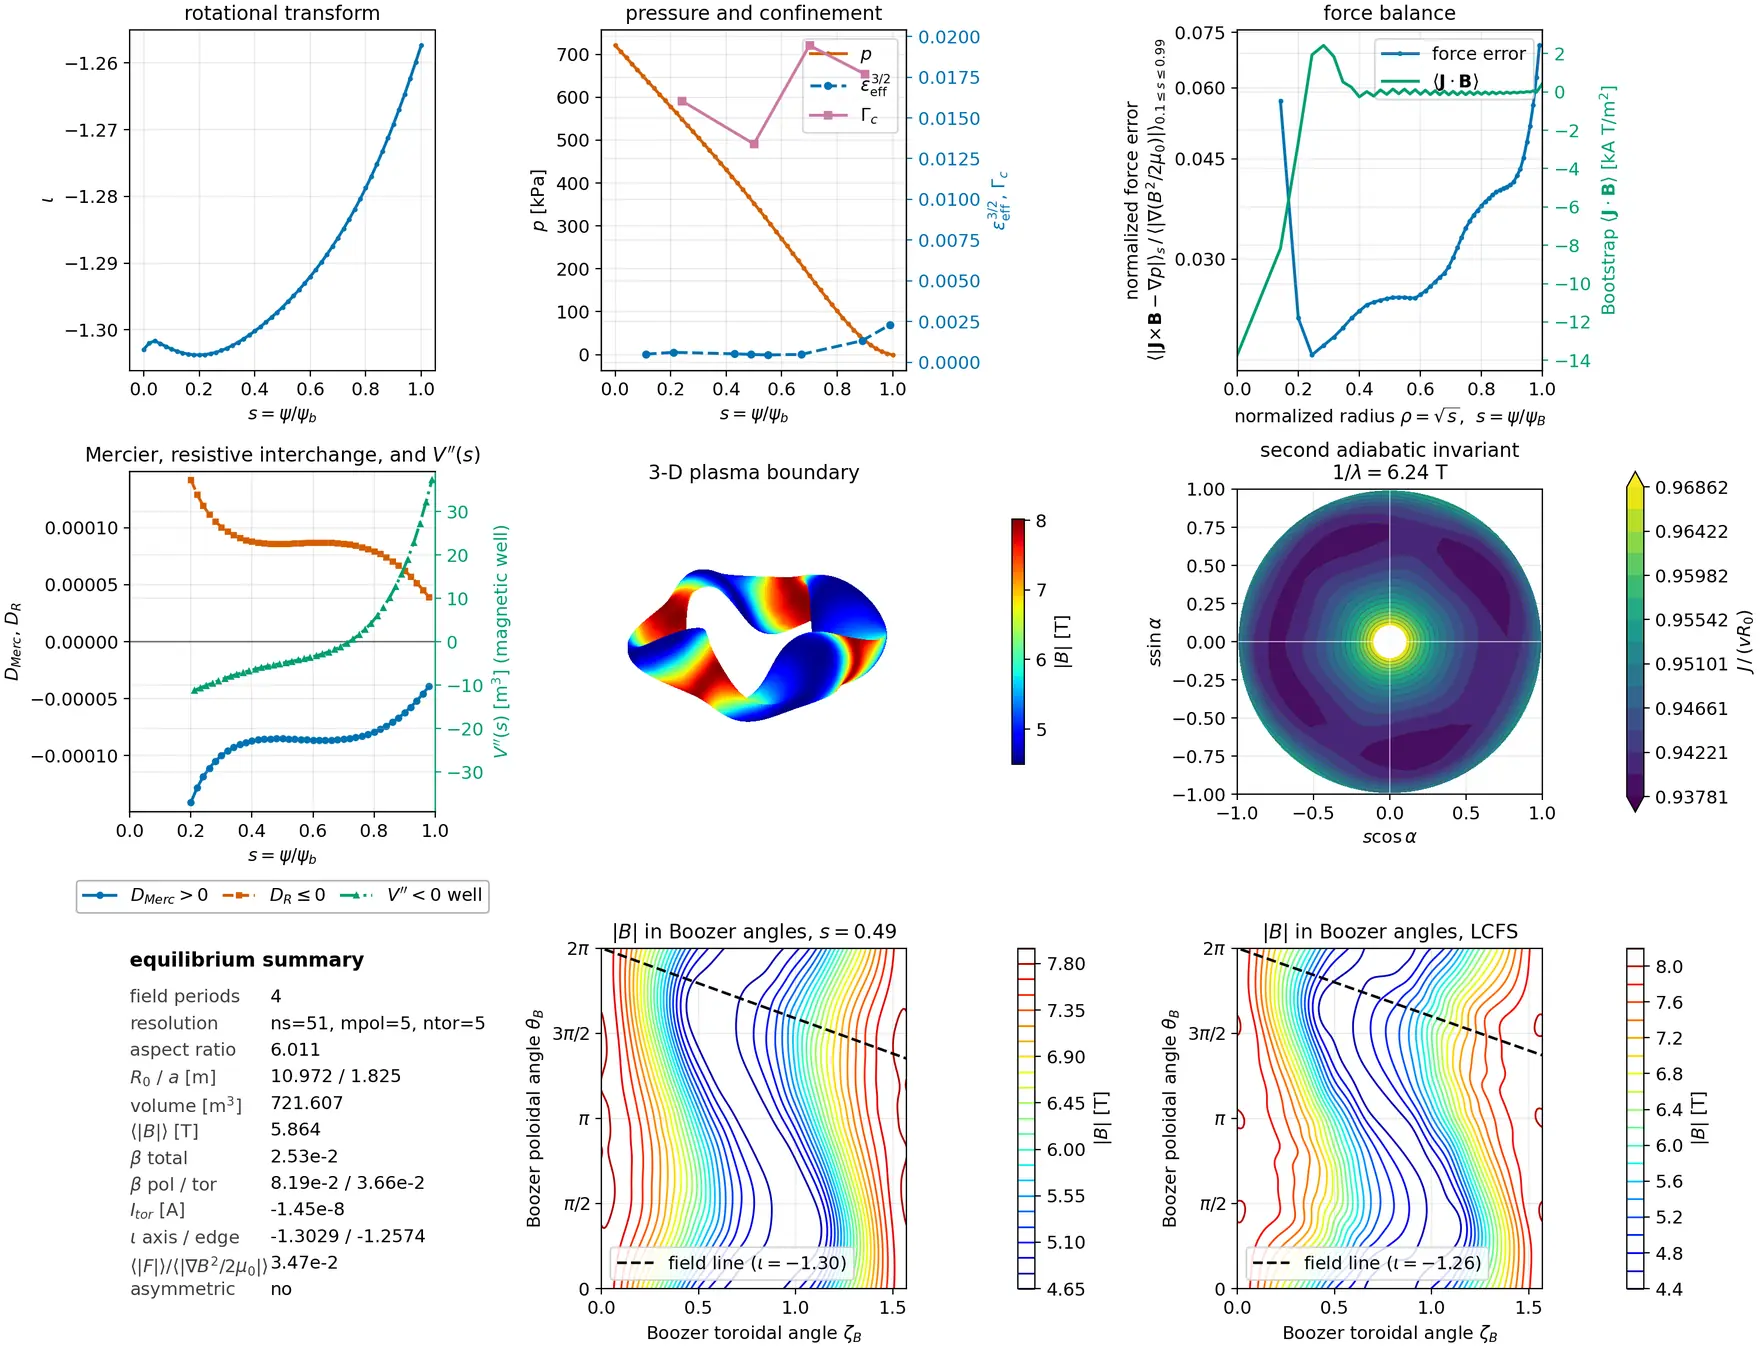
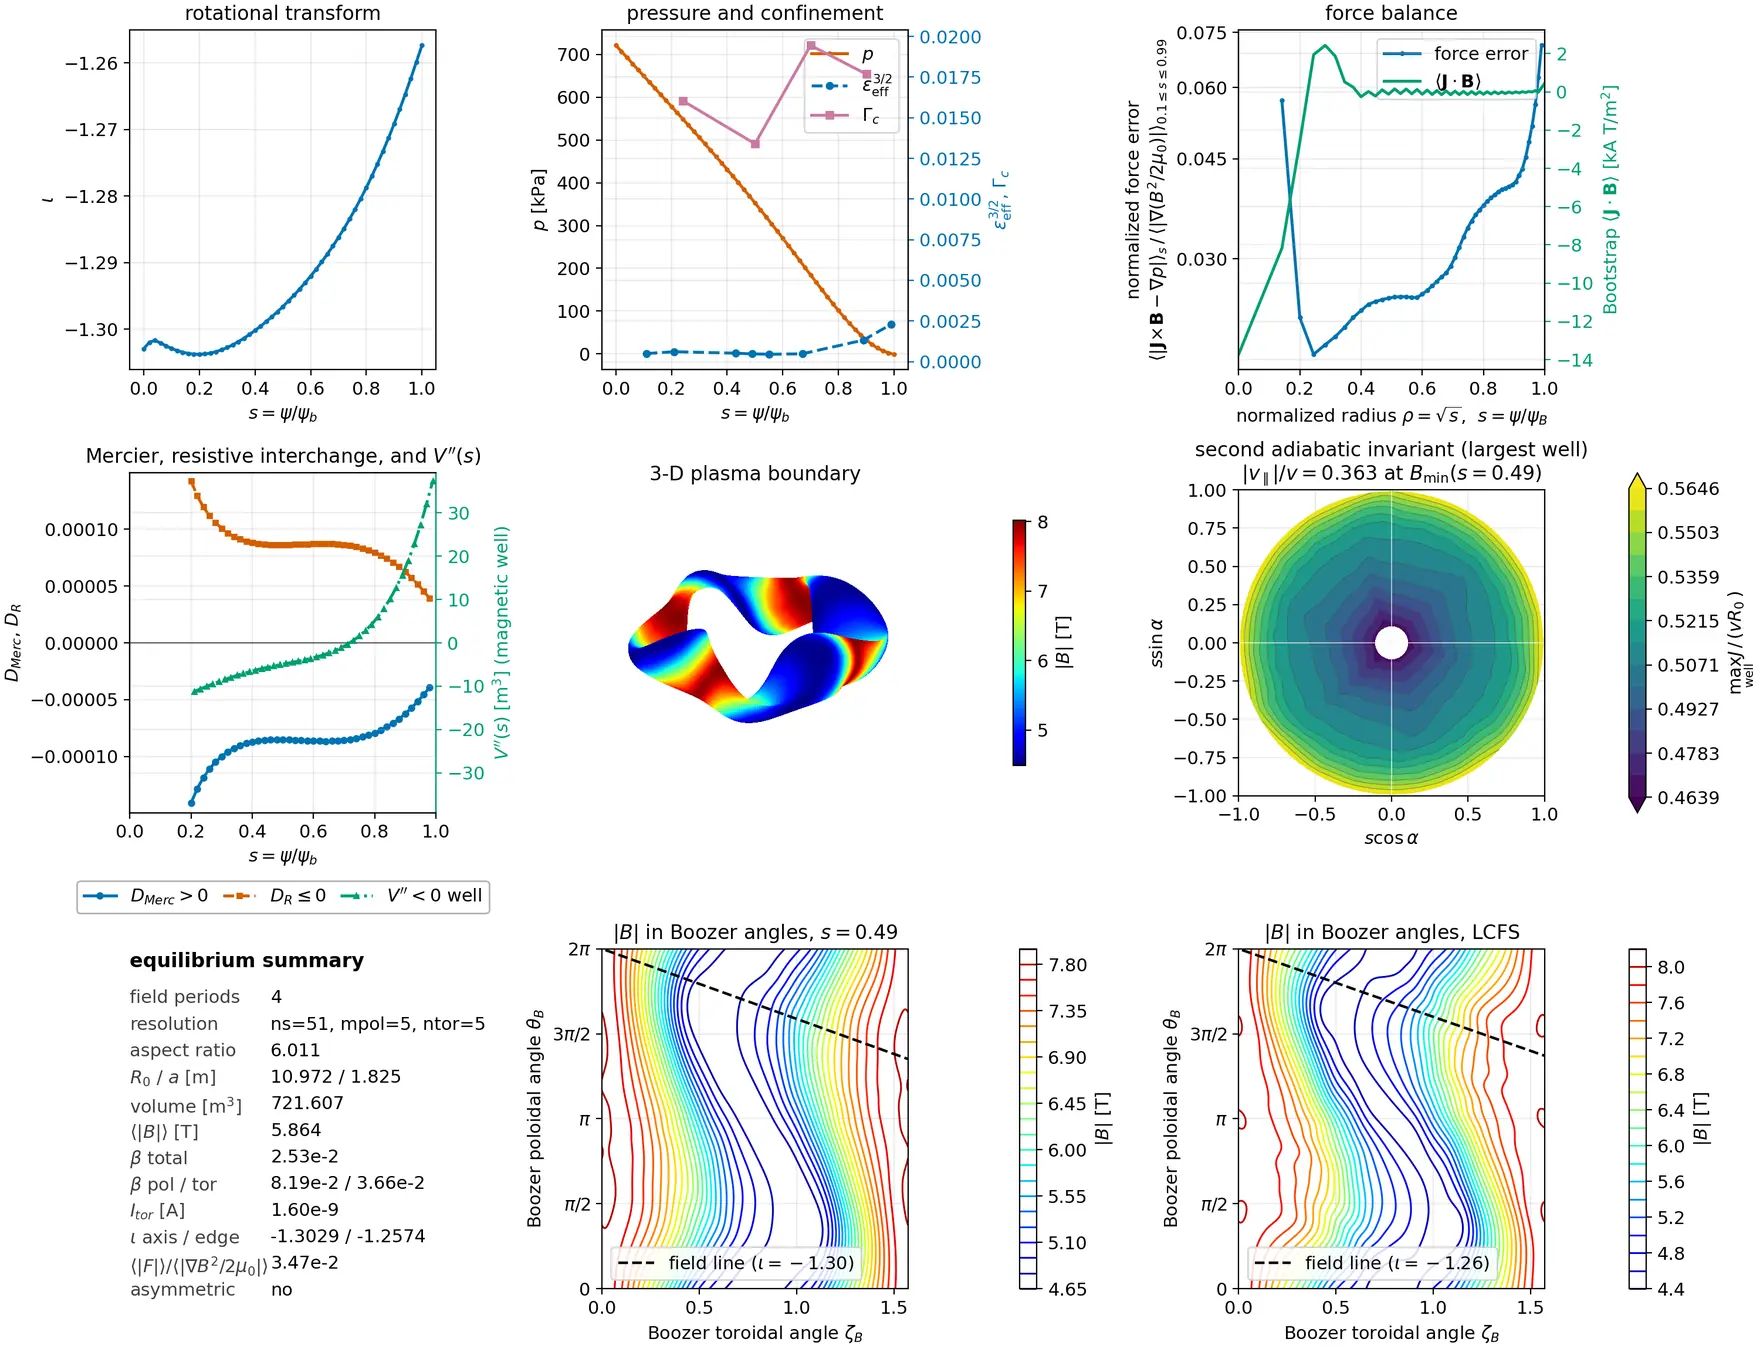
Refresh README J-map figures and provenance

diff --git a/tests/test_plot_summary.py b/tests/test_plot_summary.py
@@ -772,7 +772,9 @@ def test_j_invariant_map_keeps_distinct_well_actions():
         "G_b": np.ones(1), "I_b": np.zeros(1), "s_b": np.array([0.5]),
     }
     bstar = 1.05
-    field = lambda z: 1.0 + 0.08 * np.sin(z) + 0.3 * np.cos(2.0 * z)
+    def field(z):
+        return 1.0 + 0.08 * np.sin(z) + 0.3 * np.cos(2.0 * z)
+
     grid = np.linspace(0.0, 2.0 * np.pi, 1001)
     roots = [brentq(lambda z: field(z) - bstar, a, b)
              for a, b in zip(grid[:-1], grid[1:])
